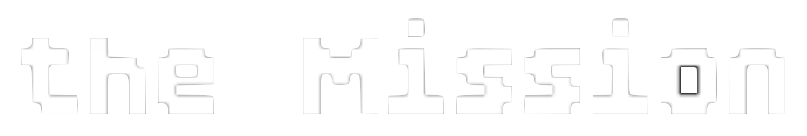
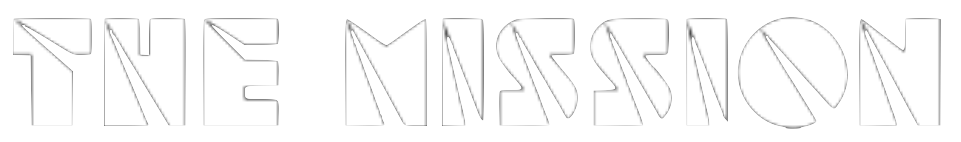
Update titleScreen

diff --git a/TitleScreen.java b/TitleScreen.java
@@ -38,7 +38,11 @@ public class TitleScreen extends World
         // Add image for the title
         GreenfootImage img = new GreenfootImage("images/background/Startgame_Title.png");
         TitleImage title = new TitleImage(img, 480, 45);
-        addObject(title, 300, 135);
+        addObject(title, 300, 100);
+        
+        GreenfootImage img1 = new GreenfootImage("images/background/Startgame_Title1.png");
+        TitleImage title1 = new TitleImage(img1, 300, 45);
+        addObject(title1, 300, 145);
         
         //Play background music for beginning title screen
         if(titleScreenSound != null && titleScreenSound.isPlaying())
